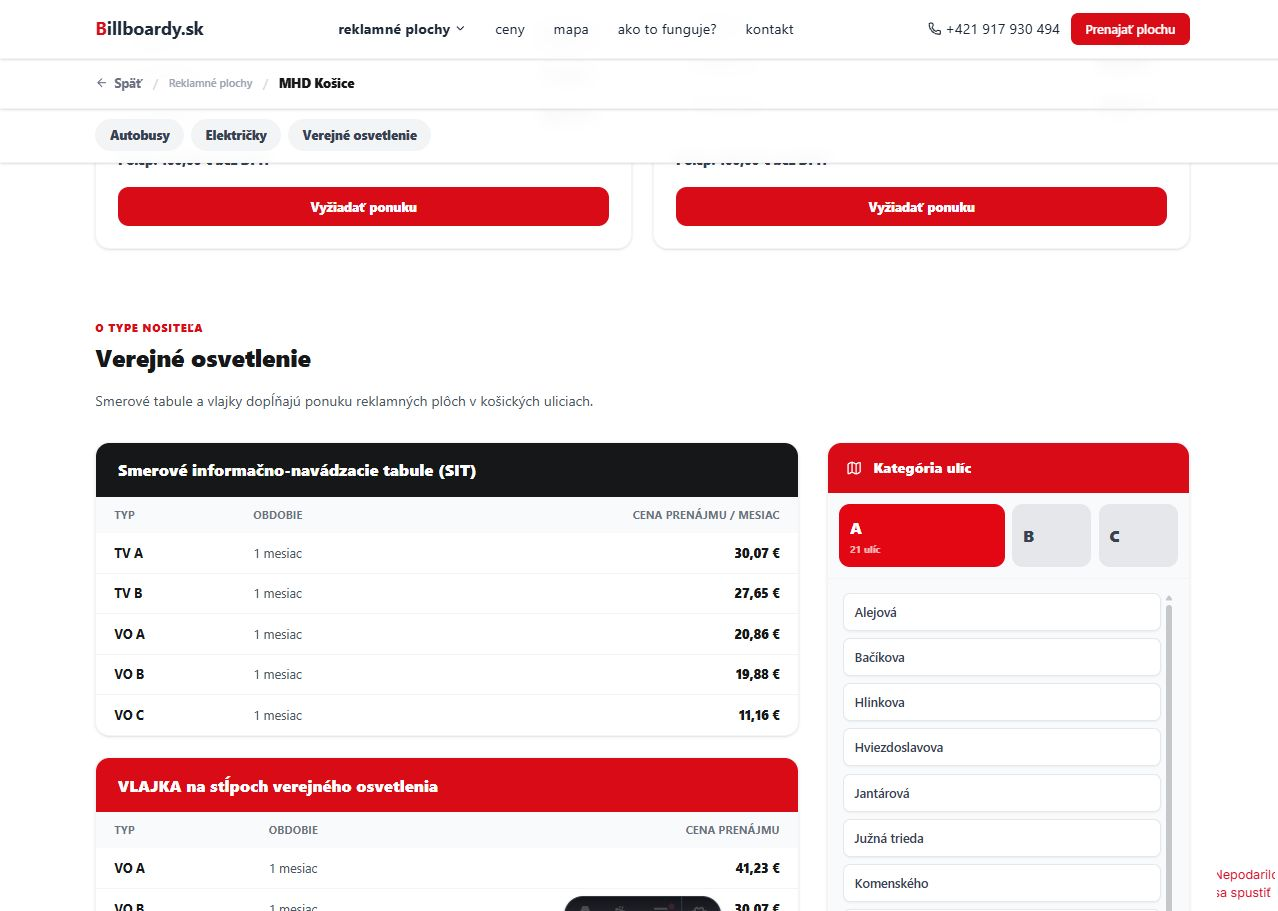
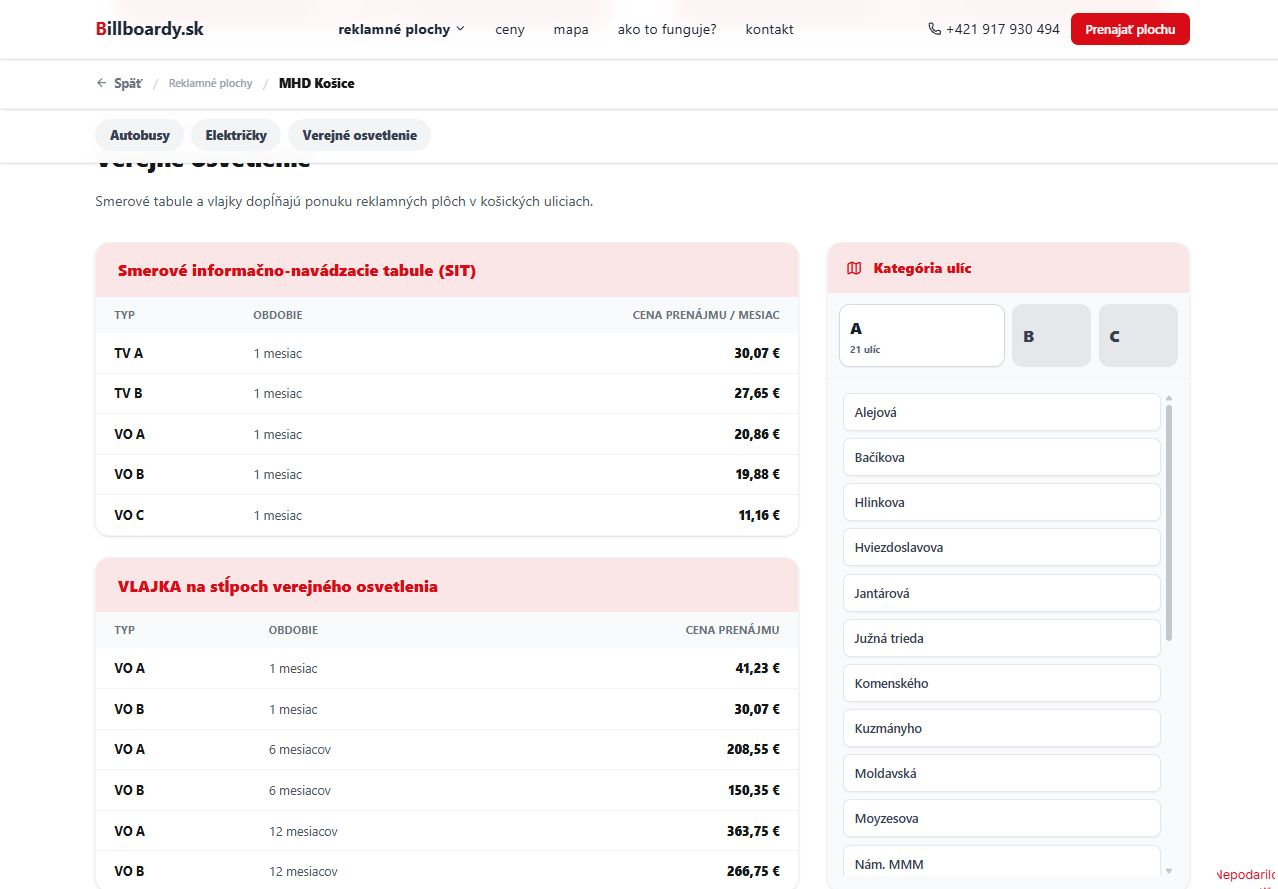
Refine MHD section emphasis

diff --git a/design-qa.md b/design-qa.md
@@ -1,51 +1,43 @@
-# Design QA — Verejné osvetlenie street tabs
+# Design QA — Verejné osvetlenie
 
-- Source visual truth: `docs/design-qa/mhd-street-tabs/reference.png`
-- Implementation screenshot: `docs/design-qa/mhd-street-tabs/implementation.png`
-- Side-by-side comparison: `docs/design-qa/mhd-street-tabs/comparison.png`
-- Route: `http://localhost:4321/reklama-na-mhd-kosice/`
-- State: desktop, category A selected; responsive and B/C interaction states checked separately.
-- Requested browser viewport: 1444 × 1013. The in-app browser rendered a 1604 × 1125 CSS viewport; the focused implementation crop is 1216 × 650 px.
-- Source image: 907 × 864 px. The comparison canvas is 1680 × 840 px; both sources were proportionally fitted into equal 820 × 780 regions without stretching.
+## Evidence
 
-## Full-view comparison evidence
-
-The comparison confirms the requested composition: title and both price tables form the wide left column, while the street category selector occupies the tall right column. The active A tab is wider than B and C, and the street list scrolls inside the panel.
-
-## Focused region comparison evidence
-
-The full comparison already uses a focused crop of the complete `Verejné osvetlenie` component. Text, table headers, tab states and representative street rows are readable at this scale, so an additional detail crop was not required.
-
-## Required fidelity surfaces
-
-- Fonts and typography: existing Billboardy.sk typography and weights are preserved; hierarchy follows the reference with a prominent section title, compact panel title and dense table copy.
-- Spacing and layout rhythm: two-column desktop layout, stacked tables and right-side panel match the reference structure. On mobile the panel stacks below the tables with no horizontal overflow.
-- Colors and visual tokens: the mockup's neutral structure is retained while the implementation uses the site's established black, gray and red brand tokens. The active tab uses brand red as the selected state.
-- Image quality and asset fidelity: the reference contains no required photographic or illustrative asset in this component. No placeholder or recreated image was introduced.
-- Copy and content: existing Slovak table copy and prices are unchanged. Categories A, B and C expose the official DPMK street lists.
-
-## Interaction and browser checks
-
-- Initial state: A selected; measured tab widths 184 / 88 / 88 px.
-- Click state: B selected; measured tab widths 88 / 184 / 88 px; 38 rows visible in the active panel.
-- Keyboard state: Arrow Right from B selects C; measured widths 88 / 88 / 184 px.
-- Mobile: panel stacks below the tables; page client width equals scroll width.
-- Category C row-height regression check: all three visible rows measure 42 px, matching a visible category B row at 42 px.
-- Browser console: 0 errors.
+- Source visual truth: `docs/design-qa/mhd-street-tabs/aligned-layout-reference.png` (`843 × 734 px`) and `docs/design-qa/mhd-street-tabs/pale-red-reference.png` (`88 × 210 px`).
+- Rendered implementation: `docs/design-qa/mhd-street-tabs/implementation.png` (`1278 × 889 px`).
+- Combined comparison: `docs/design-qa/mhd-street-tabs/comparison.png` (`1472 × 780 px`).
+- Browser viewport: `1444 × 1013 CSS px`; implementation crop: `1150 × 800 CSS px` at approximately `1.111×` capture density.
+- State: desktop route `/reklama-na-mhd-kosice/`, street category `A` selected.
 
 ## Findings
 
-- P0: none.
-- P1: none.
-- P2: none.
-- P3: the implementation intentionally applies Billboardy.sk brand styling rather than the grayscale presentation of the wireframe.
+No actionable P0, P1, or P2 differences remain.
+
+- Fonts and typography: existing Plus Jakarta Sans family, weights, hierarchy, and table copy are preserved. The pale headers retain the original readable heading size and weight.
+- Spacing and layout rhythm: the section title remains separate above the two-column content. Browser measurement confirms `0 px` difference between the top and bottom edges of the pricing column and the category card.
+- Colors and visual tokens: all three card headers use the requested `brand/10` pale red with brand-red text. The active category tab is white with a neutral border; the red selected-state fill and red shadow are absent.
+- Section navigation: the sticky `Autobusy / Električky / Verejné osvetlenie` control now uses the existing `bb-control` graphite token, white translucent chips, and a neutral shadow so it remains distinct without adding more saturated red.
+- Image quality and asset fidelity: this focused region contains no raster content beyond the supplied references; the existing library icon remains sharp and correctly aligned.
+- Copy and content: Slovak headings, prices, category counts, and street names are unchanged.
+- Interaction: category `B` was activated and category `A` restored successfully. The list remains scrollable, keyboard behavior remains implemented, and the browser console reported no errors.
+
+Focused-region comparison was required because the requested changes concern header tint, selected-tab treatment, and exact column height. The combined comparison shows those details at readable scale.
 
 ## Comparison history
 
-- Initial coded comparison: no actionable P0/P1/P2 differences. No visual fix iteration was required after the side-by-side review.
-- Browser annotation follow-up: category C's three grid rows stretched to fill the panel height. Added max-content grid rows with start alignment; post-fix browser measurements are 42 / 42 / 42 px in C and 42 px in B.
-- Browser annotation follow-up: removed the `Polep: 100,00 € bez DPH` footer rows from the SIT and VLAJKA tables only; the 13 vehicle-format cards retain the polep price.
+1. P2 — the category card visually continued below the two pricing cards because the grid row was sized by the longer street list. Fixed by measuring the natural pricing-column height at desktop widths and synchronizing the category card through `ResizeObserver`. Post-fix browser evidence: top delta `0 px`, bottom delta `0 px`.
+2. P2 — saturated red headers and the red selected tab created excessive visual emphasis. Fixed by applying the existing `brand/10` tint to all headers and using a white active tab with a neutral border. Post-fix computed styles confirm pale red headers and a white active tab.
 
-## Final result
+## Implementation checklist
+
+- [x] Preserve separate section heading.
+- [x] Align the category card with both pricing cards.
+- [x] Use the supplied pale red treatment.
+- [x] Keep active-tab expansion without a saturated fill.
+- [x] Preserve tab switching, scrolling, focus behavior, and mobile stacking.
+- [x] Verify console, build, tests, and Astro diagnostics.
+
+## Follow-up polish
+
+No P3 follow-up is required for the requested region.
 
 final result: passed

diff --git a/docs/frontend.md b/docs/frontend.md
@@ -56,7 +56,9 @@ Footer содержит ссылки на словацкие kraje вместо 
 
 `mhdAdvertising.ts` хранит недисконтированные официальные исходные цены DPMK на 2026 год. Для отображения применяется `discountPrice(sourcePrice)`: 97% от исходной цены с округлением до центов. Все показанные цены указаны без 23% DPH; временный polep в карточках автобусов и электричек стоит 100 € без DPH. В таблицах SIT/VLAJKA эта строка не отображается.
 
-В блоке `Verejné osvetlenie` заголовок и вводный текст вынесены отдельно над контентом. Ниже в две колонки выровнены таблицы SIT/VLAJKA и интерактивная карточка официальной категоризации улиц DPMK со стандартным красным заголовком. Табы A, B и C переключают прокручиваемые списки; активный таб расширяется, два неактивных остаются узкими, а при наведении используется такой же нейтральный `shadow-md`, как у карточек форматов. На мобильных устройствах панель переносится под таблицы.
+В блоке `Verejné osvetlenie` заголовок и вводный текст вынесены отдельно над контентом. Ниже в две колонки выровнены таблицы SIT/VLAJKA и интерактивная карточка официальной категоризации улиц DPMK; на десктопе её высота синхронизируется с суммарной высотой двух таблиц. Заголовки карточек используют светлый `brand/10` вместо насыщенной красной заливки. Табы A, B и C переключают прокручиваемые списки: активный таб расширяется и остаётся белым с нейтральной рамкой, а при наведении используется такой же `shadow-md`, как у карточек форматов. На мобильных устройствах панель переносится под таблицы и получает собственную минимальную высоту.
+
+Локальная навигация `Autobusy / Električky / Verejné osvetlenie` оформлена отдельной липкой полосой цвета `bb-control`; светлые контрастные чипы не теряются между красным информационным блоком и белым контентом страницы.
 
 Временные локальные assets страницы лежат в `public/assets/mhd-kosice/`: это схемы транспортных средств, производные от PDF, а также связанные локальные изображения. `ATTRIBUTION.md` фиксирует источники Wikimedia для hero с košickým трамваем и DPMK для материалов страницы.
 

diff --git a/docs/design-qa/mhd-street-tabs/design-qa.md b/docs/design-qa/mhd-street-tabs/design-qa.md
@@ -5,14 +5,15 @@
 - `aligned-layout-reference.png` — požadované rozloženie so samostatným nadpisom a zarovnanými kartami.
 - `type-heading-card-reference.png` — typografia nadpisu a štandardná karta s farebným záhlavím.
 - `format-hover-reference.png` — neutrálny hover tieň kariet formátov.
+- `pale-red-reference.png` — svetlý červený odtieň prevzatý z kariet výhod na stránkach typov.
 - `reference.png` — pôvodný návrh dvojstĺpcového bloku.
 
 ## Verified implementation
 
 - Nadpis a úvodný text sú samostatne nad dvojstĺpcovým obsahom.
-- Prvá cenová tabuľka a karta `Kategória ulíc` majú na desktope rovnakú hornú hranu (nameraný rozdiel `0 px`).
-- Karta kategórií používa červené záhlavie, biele telo a jemný neutrálny tieň podľa kariet technických parametrov.
-- Aktívny tab sa rozšíri na pomer `2.5 : 1 : 1`; neaktívne taby zostávajú užšie.
+- Ľavý stĺpec a karta `Kategória ulíc` majú na desktope rovnakú hornú aj dolnú hranu (nameraný rozdiel `0 px`).
+- Záhlavia oboch tabuliek aj karty kategórií používajú svetlé pozadie `brand/10` s červeným textom.
+- Aktívny tab sa rozšíri na pomer `2.5 : 1 : 1`, ale zostáva biely s neutrálnou sivou hranou; neaktívne taby sú užšie.
 - Hover používa neutrálny `shadow-md`; pôvodný červený tieň bol odstránený a focus ring je sivý.
 - Zoznamy A, B a C zostávajú rolovateľné a ovládateľné myšou aj klávesnicou.
 
@@ -23,4 +24,4 @@
 
 ## Result
 
-`passed` — bez otvorených P0, P1 alebo P2 vizuálnych problémov.
+`final result: passed` — bez otvorených P0, P1 alebo P2 vizuálnych problémov.
